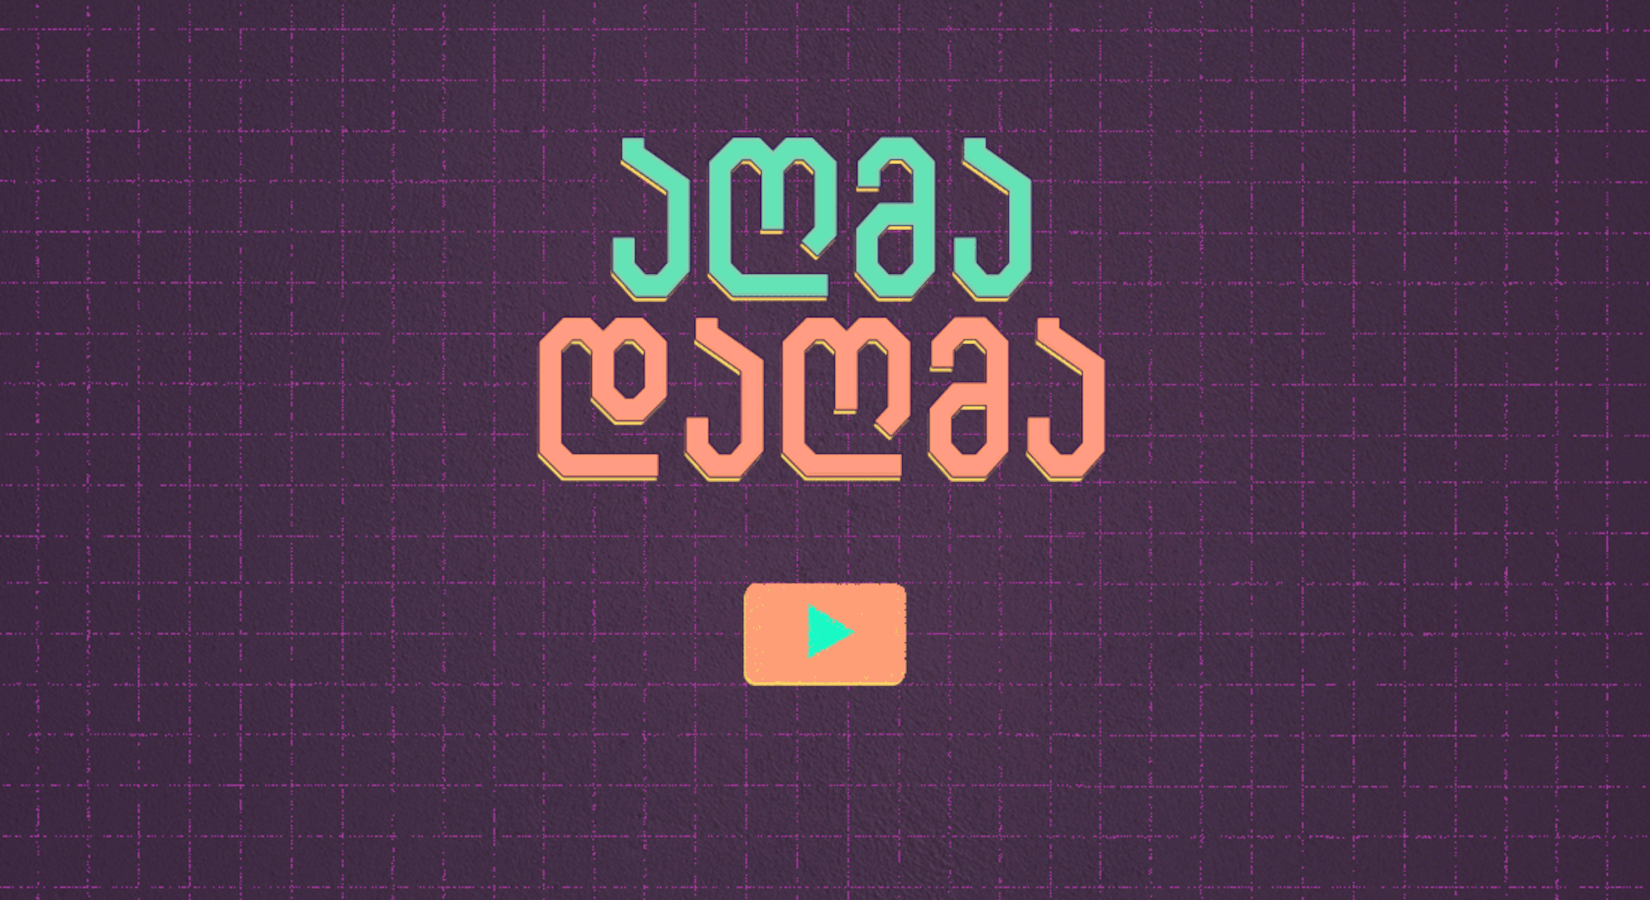
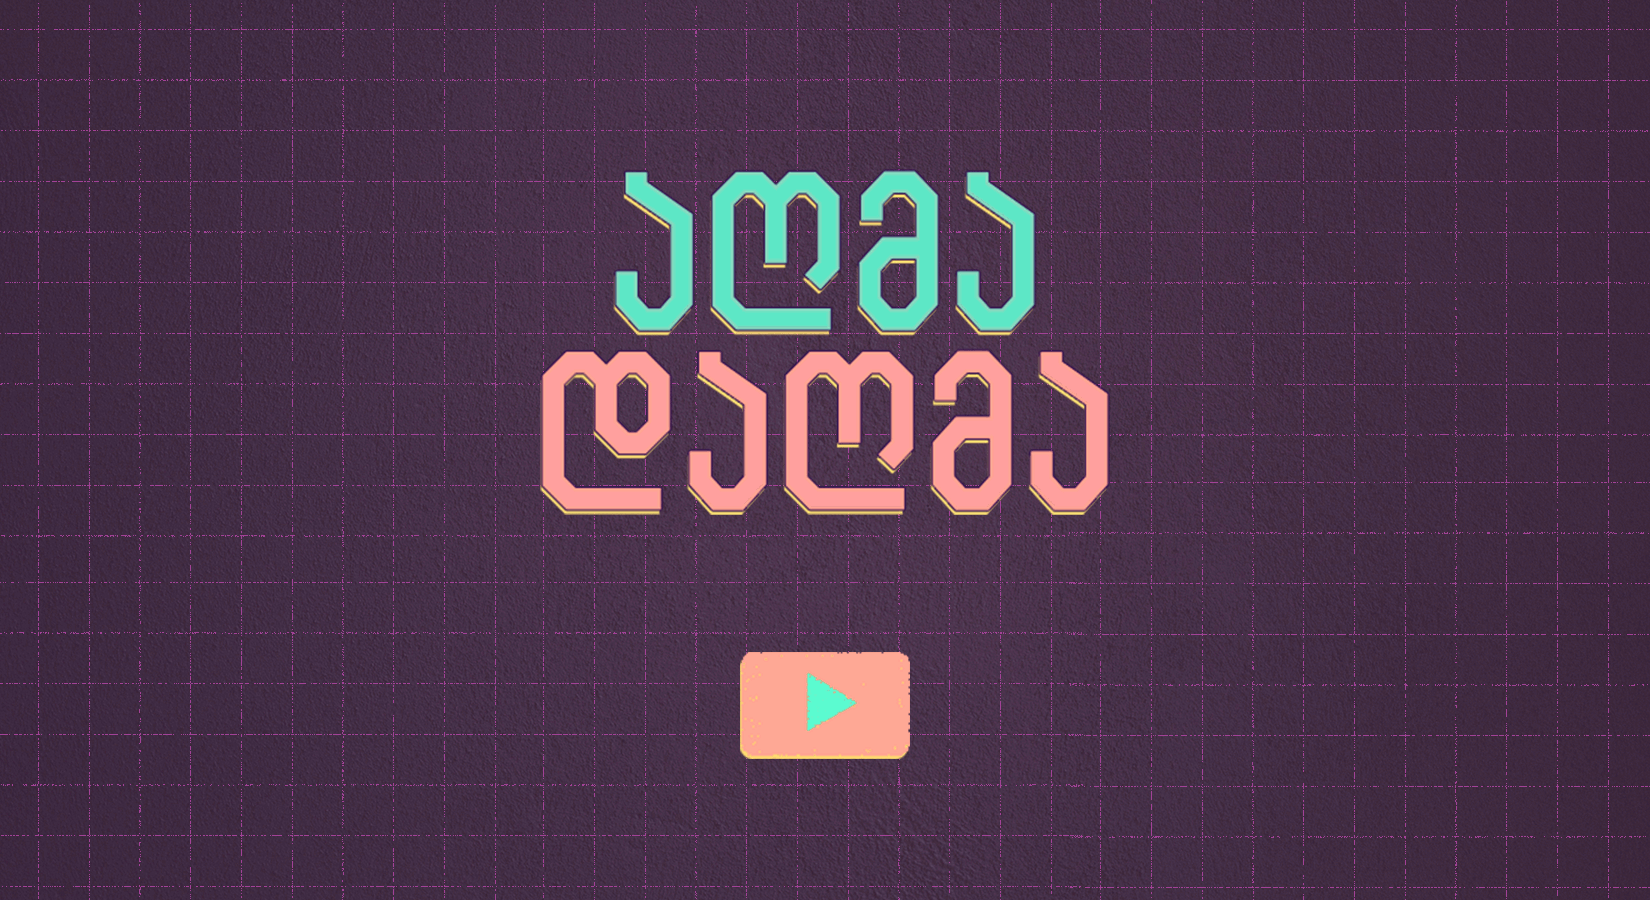
new

diff --git a/src/scripts/scenes/intro.ts b/src/scripts/scenes/intro.ts
@@ -13,7 +13,7 @@ export default class Intro extends Phaser.Scene {
 
     this.add.image(this.sys.canvas.width / 2, this.sys.canvas.height / 2, 'intro')
 
-    let rect = this.add.rectangle(this.sys.canvas.width / 2, 633, 170, 110, 0xf66712, 0).setInteractive({
+    let rect = this.add.rectangle(this.sys.canvas.width / 2, 703, 170, 110, 0xf66712, 0).setInteractive({
       useHandCursor: true
     })
 
